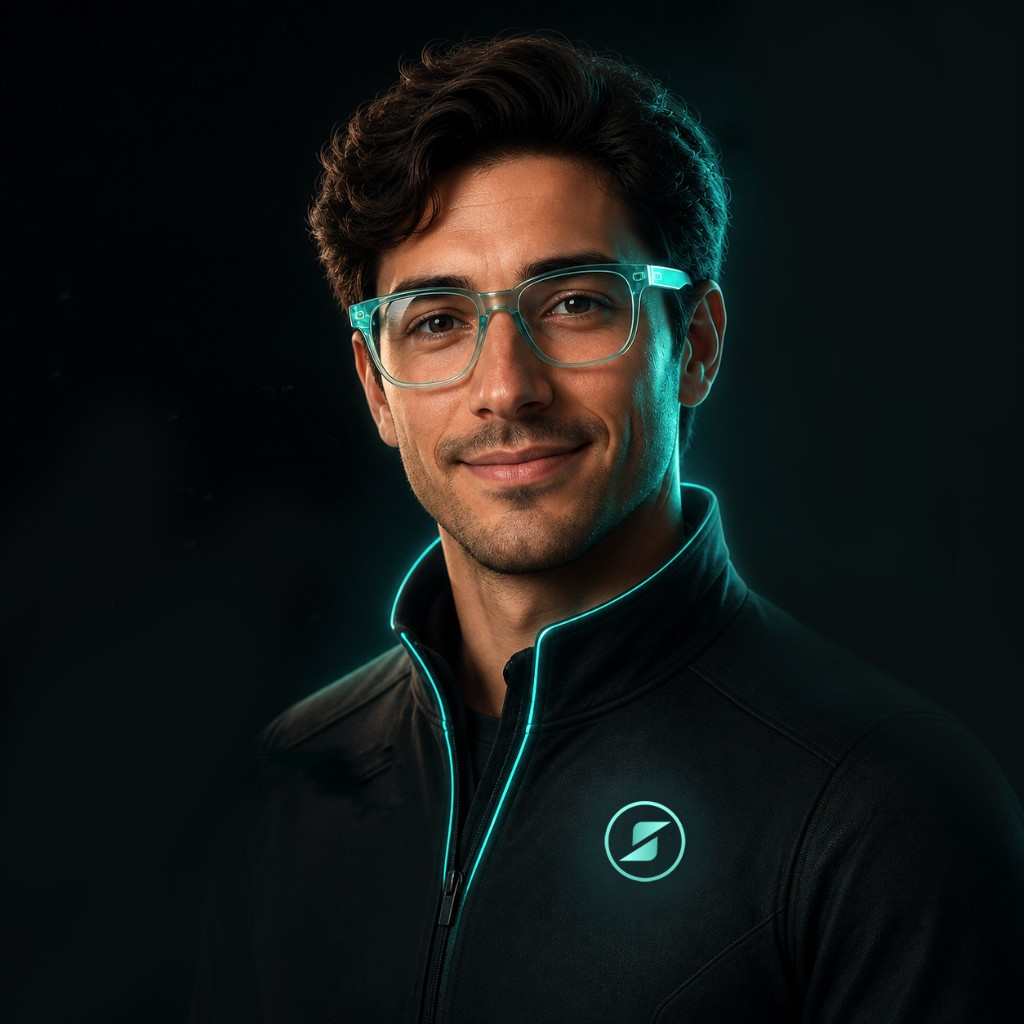
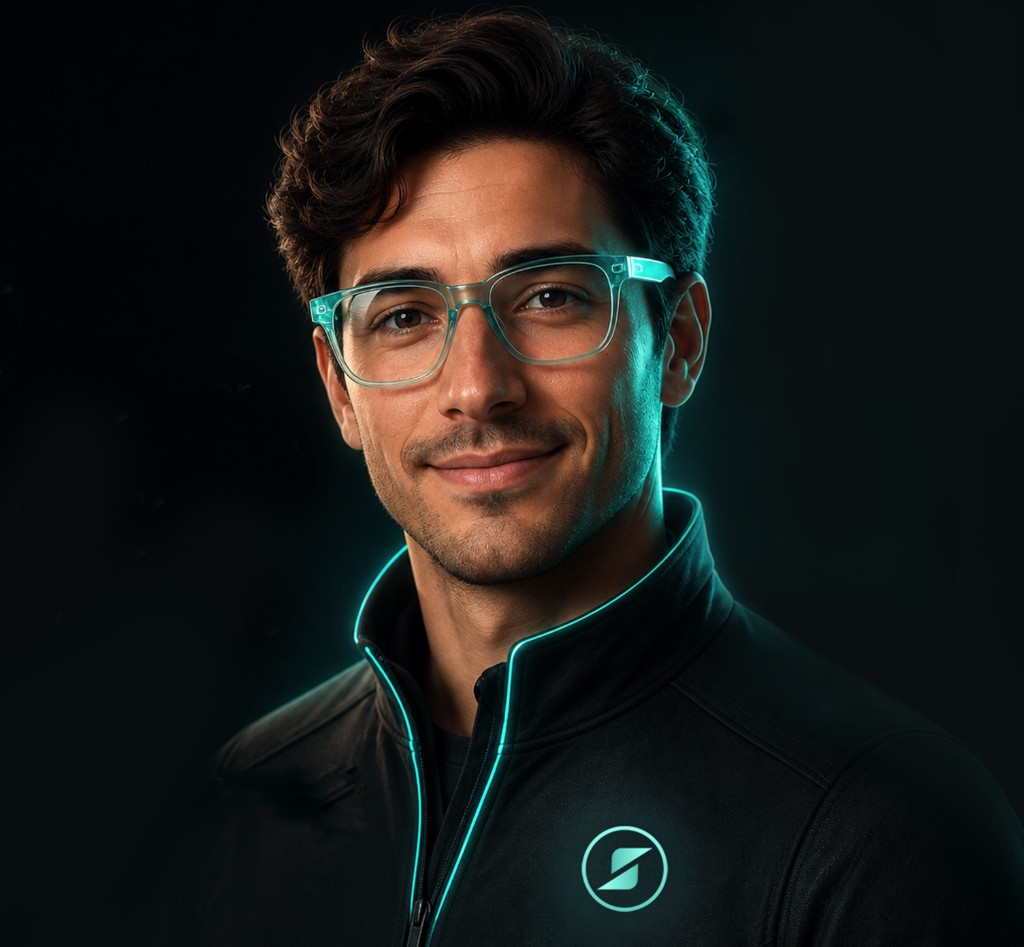
Focus pillars: uniform image area, cover fill; Turbopack root; new assets
- Same aspect ratio and edge-to-edge images with object-cover (no letterboxing)
- Badge overlay unchanged; next.config turbopack.root for correct dev root
- Update focus-pillar-apps, agents, legacy PNGs

diff --git a/components/focus-pillars-section.tsx b/components/focus-pillars-section.tsx
@@ -10,6 +10,9 @@ const images = [
   { src: "/focus-pillar-legacy.png", key: "pillar2" as const, altKey: "imageAlt2" as const },
 ]
 
+/** Same footprint for every card: full card width, fixed aspect, no letterboxing (object-cover). */
+const MEDIA_ASPECT = "aspect-[4/5]"
+
 export function FocusPillarsSection() {
   const { t } = useLanguage()
   const fp = t.focusPillars
@@ -24,37 +27,44 @@ export function FocusPillarsSection() {
           <p className="text-lg text-white/50 leading-relaxed">{fp.description}</p>
         </div>
 
-        <div className="grid grid-cols-1 lg:grid-cols-3 gap-8 items-stretch">
+        <div className="grid grid-cols-1 gap-8 lg:grid-cols-3 lg:items-stretch">
           {images.map(({ src, key, altKey }) => {
             const pillar = fp[key]
             const isFeatured = key === "pillar3"
             return (
               <article
                 key={key}
-                className={`flex flex-col rounded-3xl overflow-hidden bg-white/[0.03] border ${
+                className={`relative flex h-full flex-col overflow-hidden rounded-3xl bg-white/[0.03] ${
                   isFeatured
-                    ? "lg:ring-2 lg:ring-teal-400/35 border-teal-400/25 shadow-[0_0_60px_-20px_rgba(20,184,166,0.35)]"
-                    : "border-white/10"
+                    ? "border border-teal-400/25 shadow-[0_0_60px_-20px_rgba(20,184,166,0.35)] lg:ring-2 lg:ring-teal-400/35"
+                    : "border border-white/10"
                 }`}
               >
-                <div className="relative aspect-[4/3] w-full bg-black/40">
+                {isFeatured && (
+                  <span className="pointer-events-none absolute right-3 top-3 z-20 max-w-[calc(100%-1.5rem)] truncate rounded-full border border-teal-400/40 bg-black/55 px-3 py-1 text-[10px] font-semibold uppercase tracking-[0.14em] text-teal-200 shadow-lg backdrop-blur-md sm:right-4 sm:top-4 sm:text-[11px]">
+                    {fp.pillar3.badge}
+                  </span>
+                )}
+
+                <div
+                  className={`relative w-full shrink-0 overflow-hidden border-b border-white/[0.08] bg-zinc-950 ${MEDIA_ASPECT}`}
+                >
                   <Image
                     src={src}
                     alt={fp[altKey]}
                     fill
-                    className={key === "pillar3" ? "object-cover object-top" : "object-cover"}
+                    className="object-cover object-center"
                     sizes="(max-width: 1024px) 100vw, 33vw"
+                    priority={isFeatured}
                   />
                 </div>
-                <div className="flex flex-col flex-1 p-6 sm:p-8">
-                  {isFeatured && (
-                    <span className="inline-flex self-start mb-3 px-3 py-1 rounded-full text-xs font-semibold tracking-wide uppercase bg-teal-500/15 text-teal-300 border border-teal-400/30">
-                      {fp.pillar3.badge}
-                    </span>
-                  )}
-                  <h3 className="text-xl font-semibold text-white mb-3">{pillar.title}</h3>
-                  <p className="text-white/50 text-sm leading-relaxed flex-1 mb-4">{pillar.body}</p>
-                  <p className="text-sm text-teal-200/70 border-t border-white/10 pt-4 leading-relaxed">{pillar.example}</p>
+
+                <div className="flex flex-col p-6 sm:p-8">
+                  <h3 className="mb-3 text-xl font-semibold text-white">{pillar.title}</h3>
+                  <p className="mb-4 text-sm leading-relaxed text-white/50">{pillar.body}</p>
+                  <p className="border-t border-white/10 pt-4 text-sm leading-relaxed text-teal-200/70">
+                    {pillar.example}
+                  </p>
                 </div>
               </article>
             )
